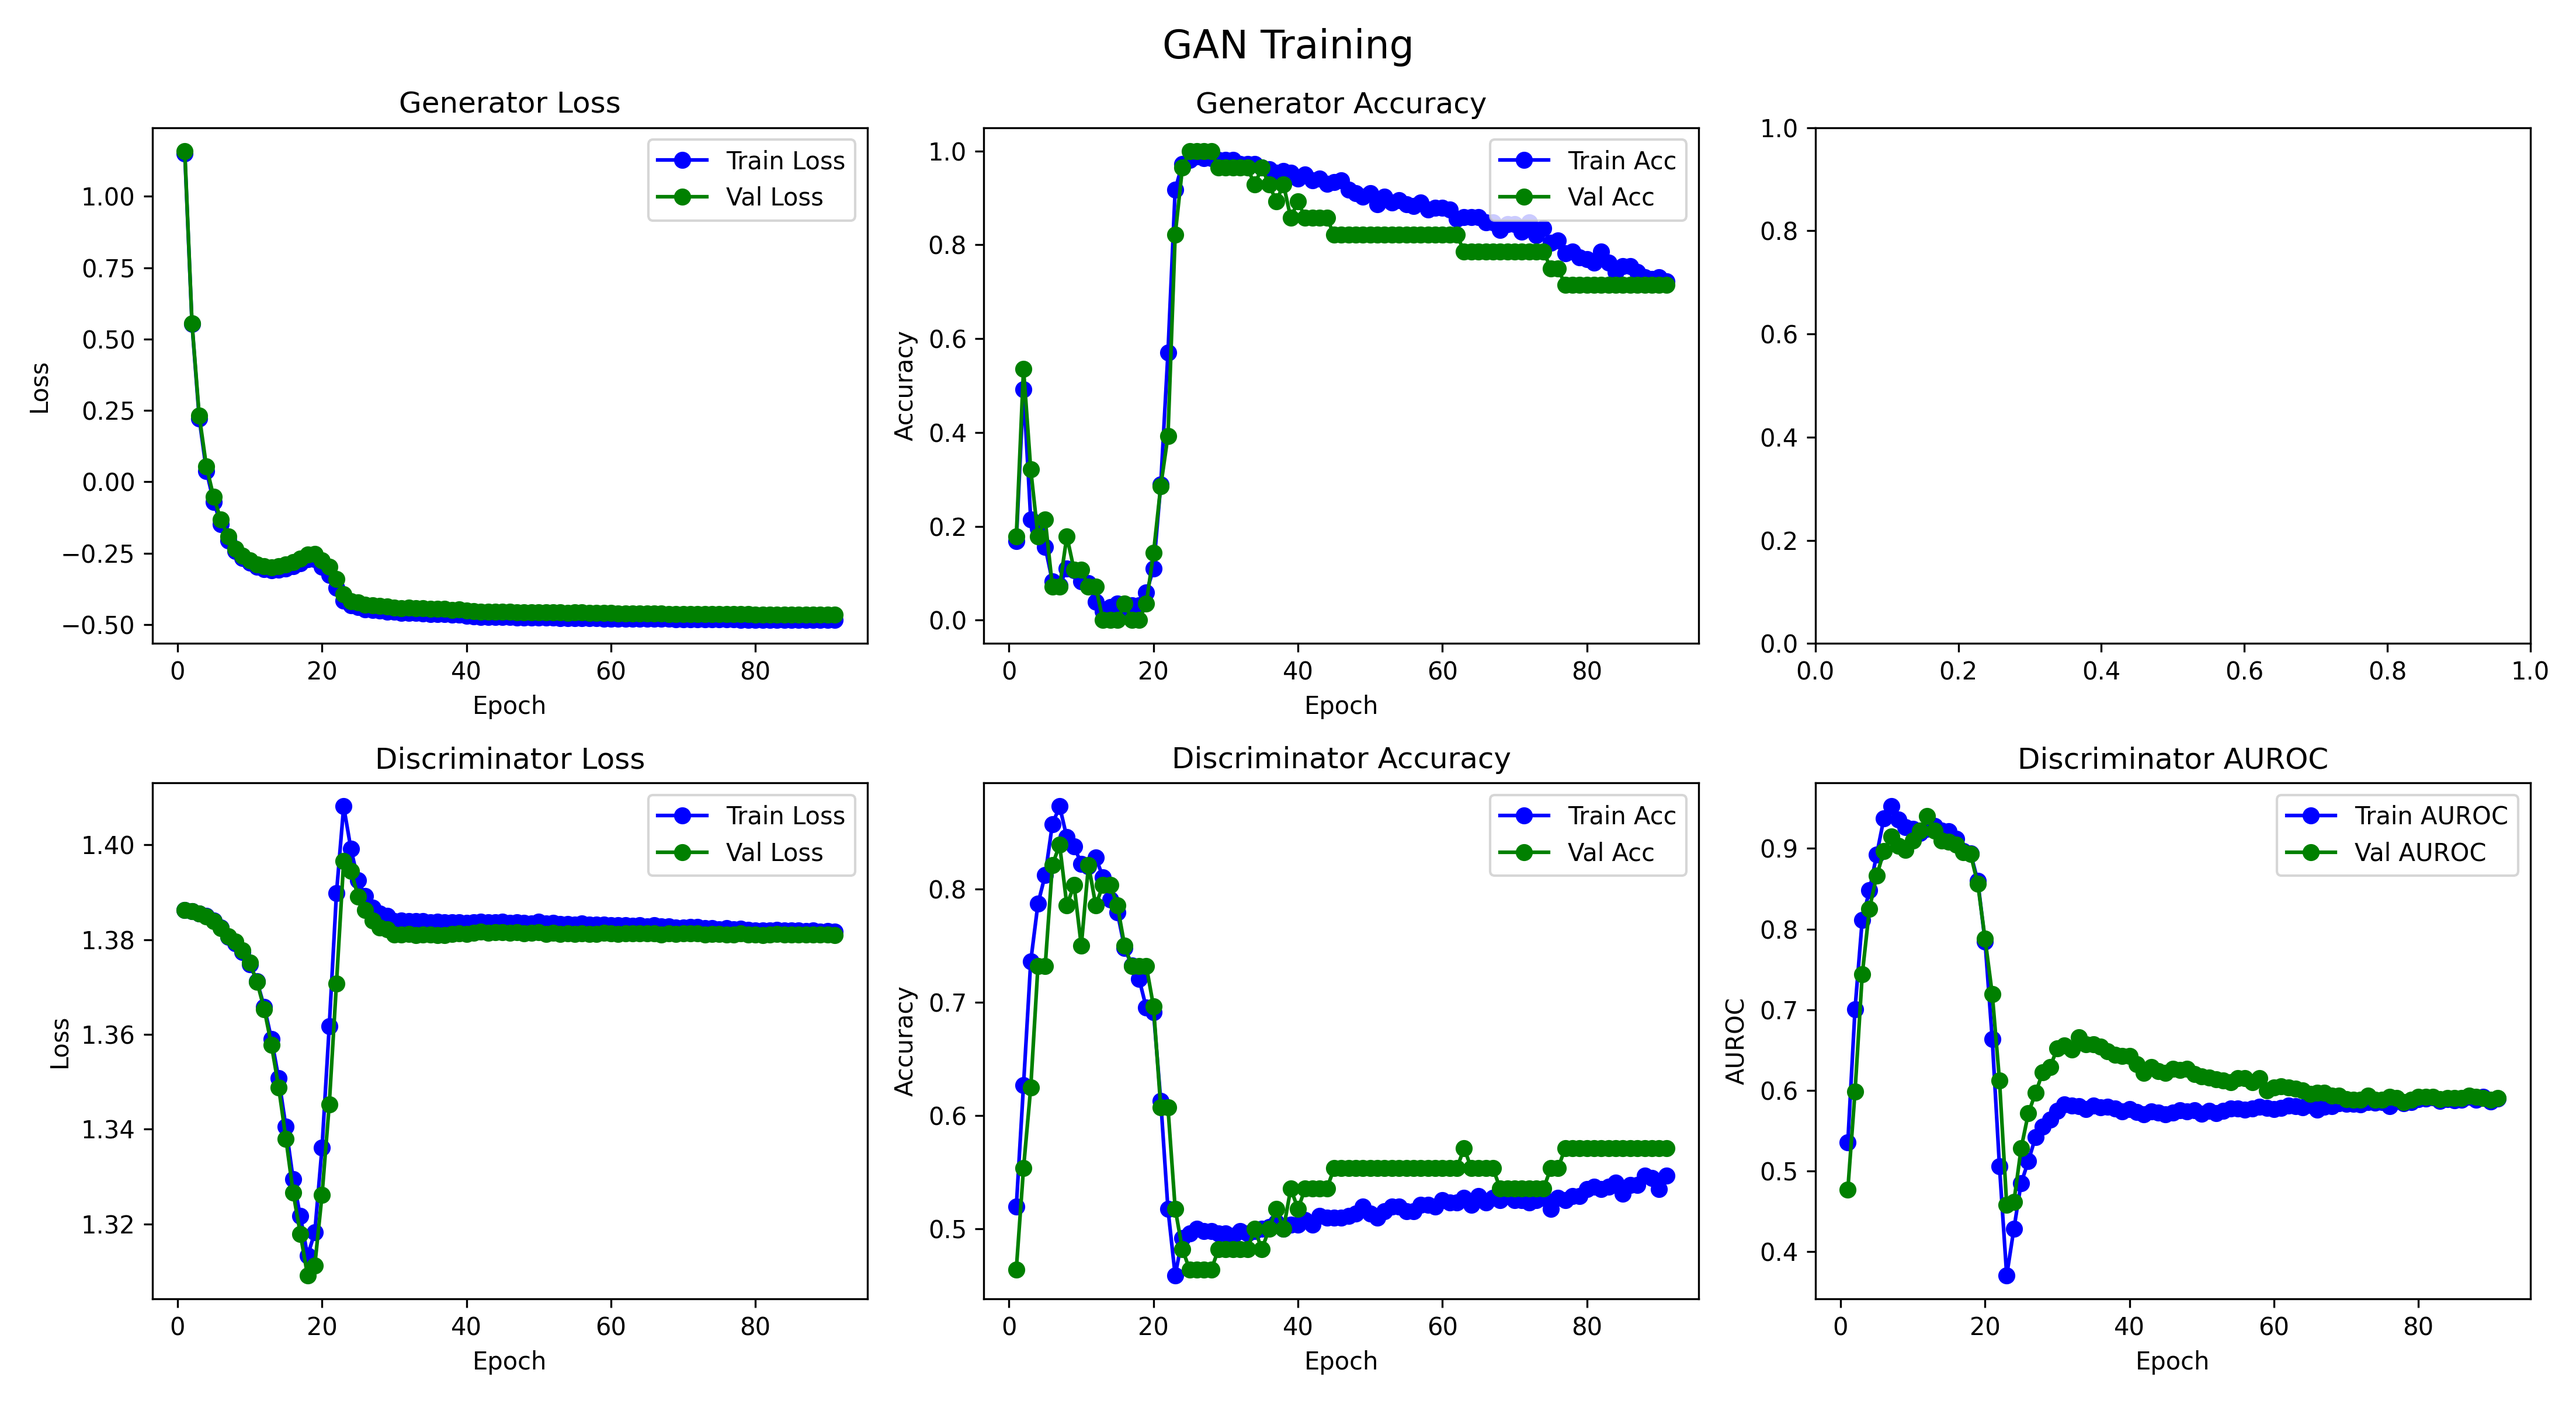
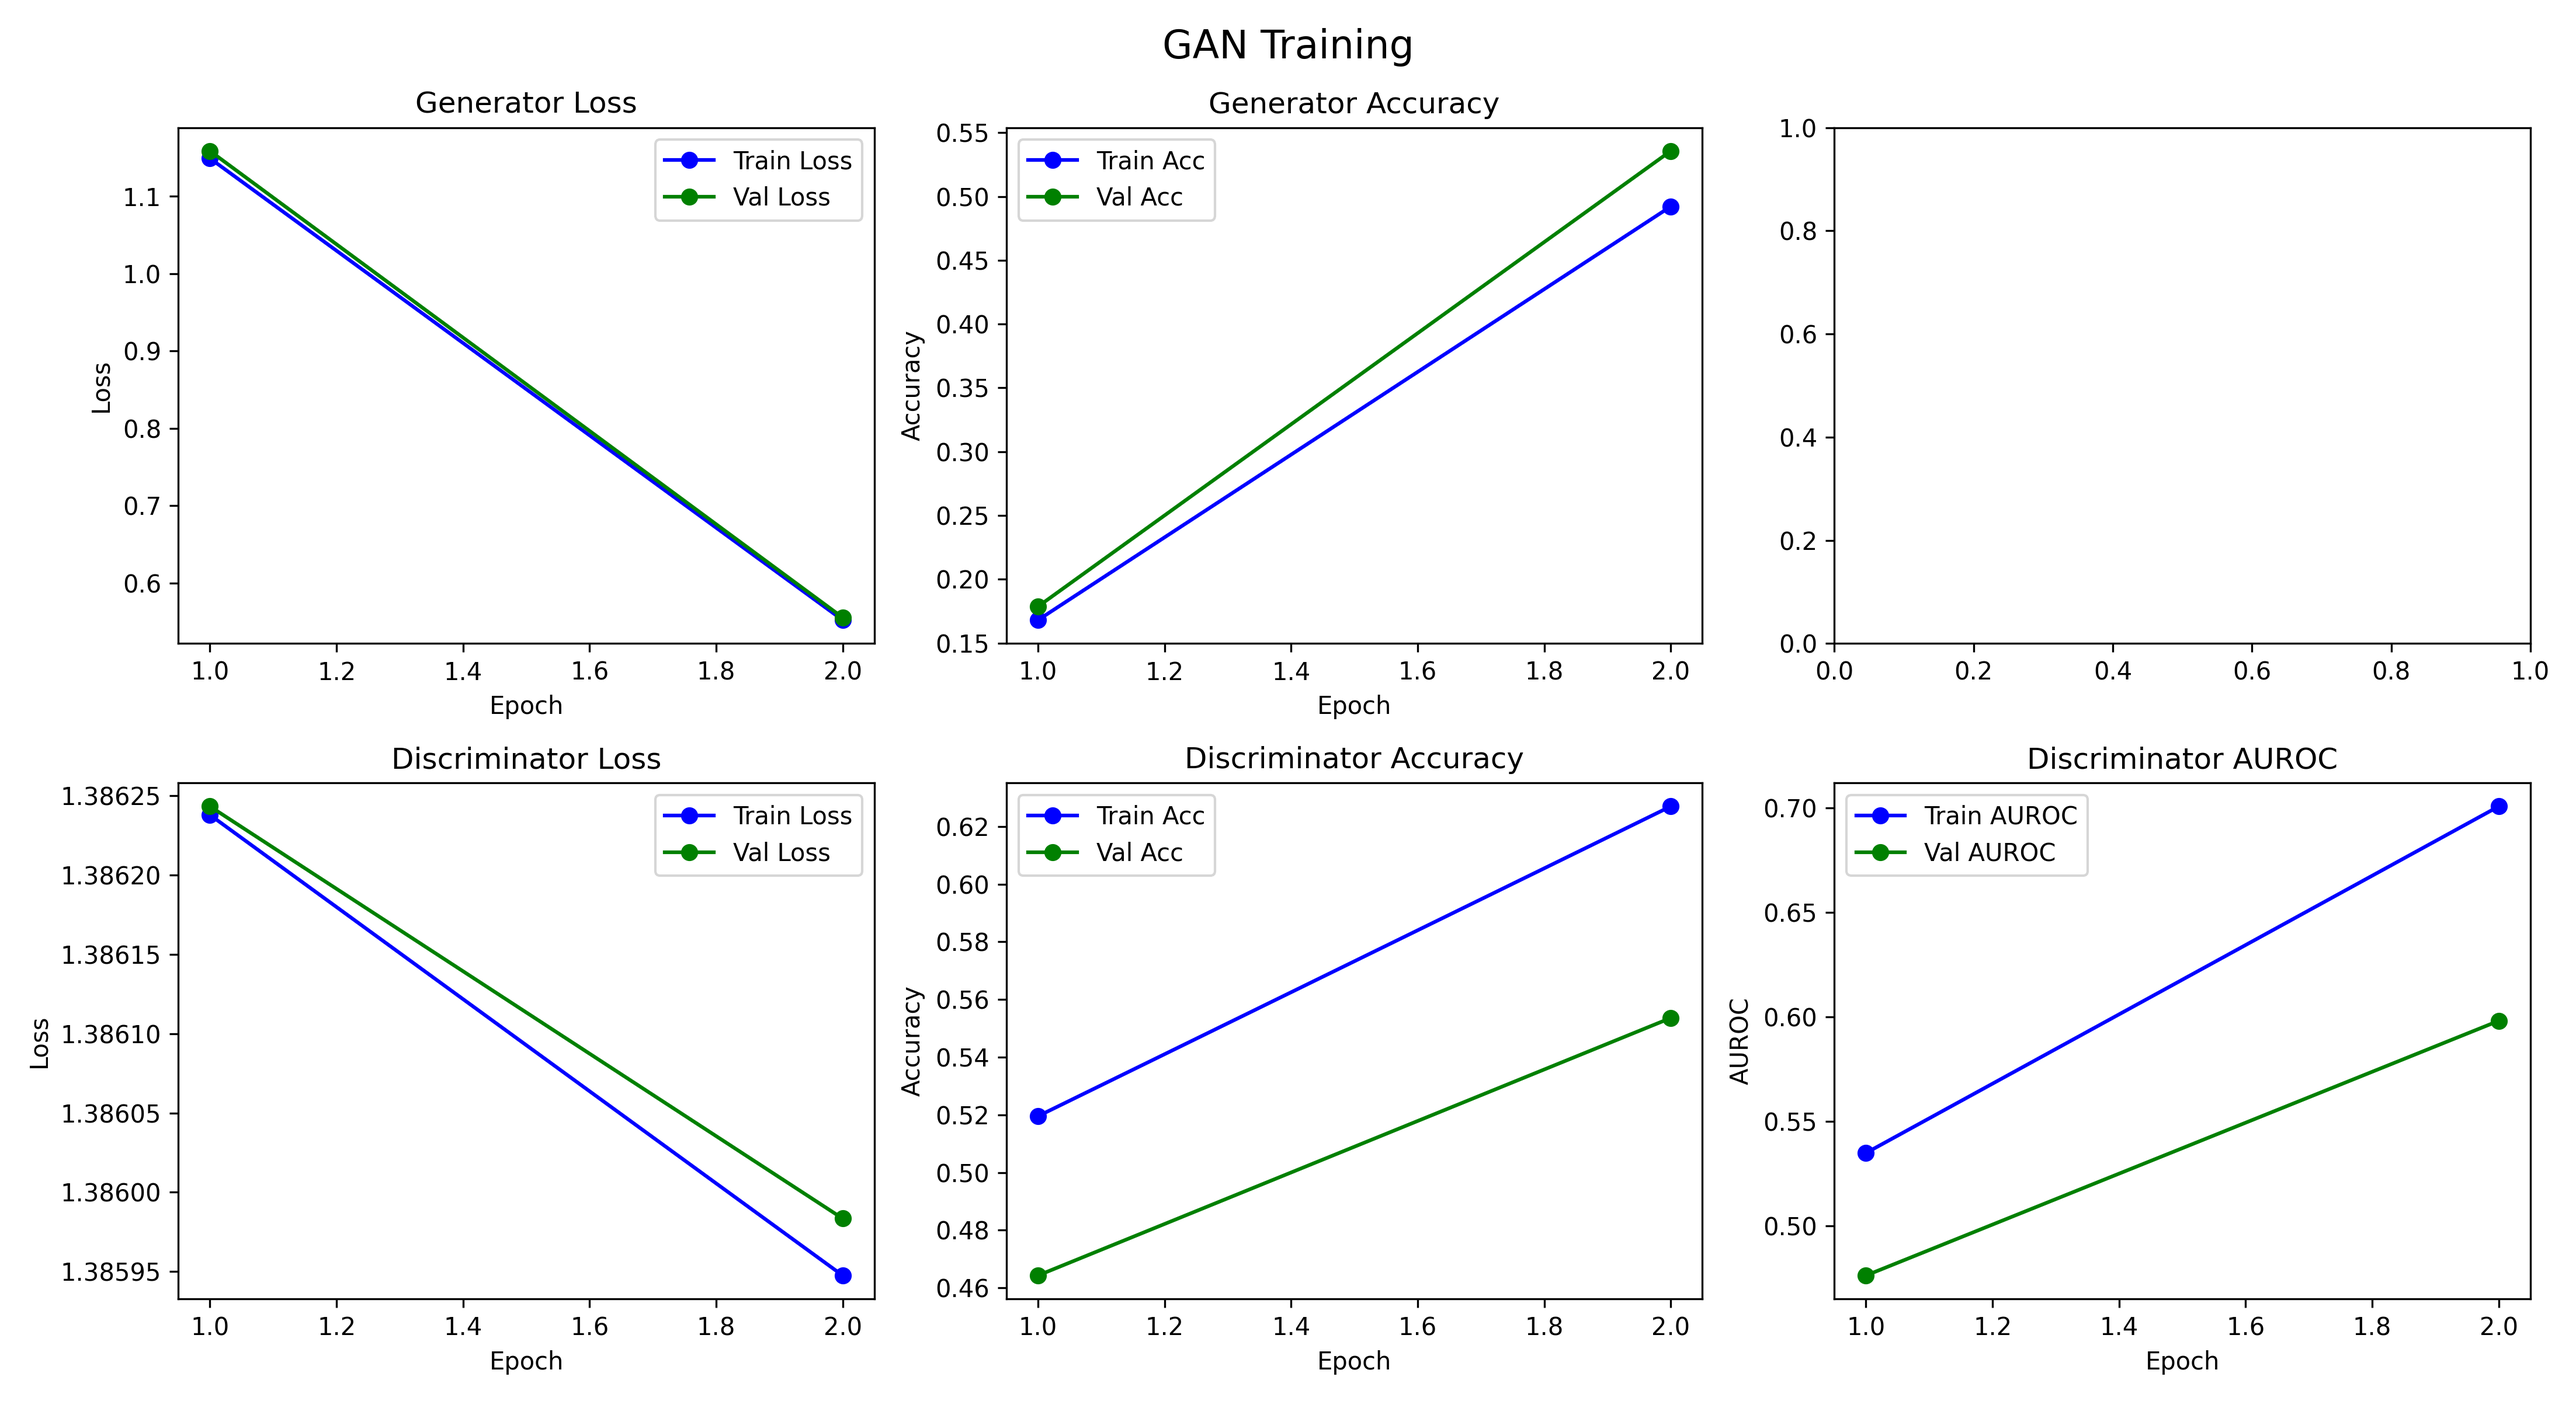
cleaned up train_gan.py and readme

diff --git a/src/train_gan.py b/src/train_gan.py
@@ -19,30 +19,35 @@ np.random.seed(42)
 random.seed(42)
 
 
-def main():
+def train_gan(
+    # Generator params
+    num_enc_filters=6,
+    num_dec_filters=12,
+    num_upsamples_and_downsamples=3,
+    # Discriminator params
+    num_filters=2,
+    num_convolutions=3,
+    num_fc_units=8,
+    # Training hyperparams
+    max_epochs=100,
+    patience=20,
+    batch_size=16,
+):
 
-    num_enc_filters = 6
-    num_dec_filters = 12
-    downup_samples = 3
-
-    num_filters = 2
-    num_conv = 3
-    num_fc_units = 8
-    
     # Data Splits
-    tr_loader, val_loader = get_train_val_test_loaders(batch_size=16)
+    tr_loader, val_loader = get_train_val_test_loaders(batch_size=batch_size)
 
     # Models
     generator = DenoisingAE(
         num_enc_filters=num_enc_filters, 
         num_dec_filters=num_dec_filters, 
-        num_downsamples=downup_samples, 
-        num_upsamples=downup_samples
+        num_downsamples=num_upsamples_and_downsamples, 
+        num_upsamples=num_upsamples_and_downsamples
     )
 
     discriminator = Discriminator(
         num_filters=num_filters,
-        num_convolutions=num_conv, 
+        num_convolutions=num_convolutions, 
         fc_units=num_fc_units
     )
 
@@ -84,8 +89,6 @@ def main():
         axes=axes,
     )
 
-    # TODO: Tweak patience hyperparam
-    patience = 20
     # Init patience count and val_losses
     curr_count_to_patience = 0
     prev_gen_val_loss = generator_stats[start_epoch]["val_loss"]
@@ -94,7 +97,7 @@ def main():
     epoch = start_epoch
 
     # While early stopping or max_epochs not reached, alternate between training generator and discriminator
-    while curr_count_to_patience < patience and epoch < 90:
+    while curr_count_to_patience < patience and epoch < max_epochs:
         # Train generator
         gen_utils.train_epoch(
             generator=generator,
@@ -149,22 +152,39 @@ def main():
         gen_scheduler.step()
         disc_scheduler.step()
 
+    # Training finsihed
+    print("Max epochs reached") if epoch >= max_epochs else print("Patience reached")
     print("Finished Training")
 
+    # Save the performance training plot
     utils.save_training_plot(save_path="images/performance_plot.png")
-
-    # Close any existing plots
-    utils.close_plot()
-
-    # Call the plotting utility function
-    title = f"Clean/Mixed/Denoised Signals\nGenerator Params: num_enc_filters={num_enc_filters}, num_dec_filters={num_dec_filters}, num_down/up_samples={downup_samples}\nDiscriminator Params: num_filters={num_filters}, convolutional_layers={num_conv}, fc_units={num_fc_units}"
-    utils.plot_denoising_results(generator=generator, val_loader=val_loader, num_examples=2, title=title)
-
-
-    # Save figure and keep plot open
     utils.hold_training_plot()
 
+    # Plot 2 examples of the generator outputs
+    title = f"Clean/Mixed/Denoised Signals\nGenerator Params: num_enc_filters={num_enc_filters}, num_dec_filters={num_dec_filters}, num_down/upsamples={num_upsamples_and_downsamples}\nDiscriminator Params: num_filters={num_filters}, convolutional_layers={num_convolutions}, fc_units={num_fc_units}"
+    utils.plot_denoising_results(generator=generator, val_loader=val_loader, num_examples=2, title=title)
+    utils.save_training_plot(save_path="images/denoised_data.png")
 
+    return generator, discriminator, tr_loader, val_loader
+
+
+
+def main() :
+
+    train_gan(
+        # Generator params
+        num_enc_filters=6,
+        num_dec_filters=12,
+        num_upsamples_and_downsamples=3,
+        # Discriminator params
+        num_filters=2,
+        num_convolutions=3,
+        num_fc_units=8,
+        # Training hyperparams
+        max_epochs=1,
+        patience=20,
+        batch_size=16,
+    )
 
 
 if __name__ == "__main__":

diff --git a/src/utils/utils.py b/src/utils/utils.py
@@ -224,7 +224,7 @@ def plot_denoising_results(generator, val_loader, title, num_examples=2, sample_
     for i in range(num_examples):
         # Fetch a batch of data from the validation loader
         batch = next(iter(val_loader))
-        mixed_data, clean_data, _, _ = batch  # Assuming batch returns these components
+        mixed_data, clean_data, _, _ = batch 
 
         # Choose a random index from the batch
         random_idx = random.randint(0, mixed_data.shape[0] - 1)

diff --git a/readme.md b/readme.md
@@ -13,8 +13,9 @@ Can assumably be extended to train on sample rates of up to 44100Hz when given p
 
 ## Setup
 
-Setup data folder as follows:
+Install dependencies in requirements.txt
 
+Setup a data folder as follows:
 ```
 GAN-Denoiser
 ├── data
@@ -29,8 +30,9 @@ GAN-Denoiser
 │       └── noise
 └── ...
 ```
+This is where created noise, sine, and mixed (noise + sine) signals will be stored.
 
-Then run create_data.py
+Run create_data.py
 This should result in folders being filled with data, and displaying plots for a random signal from each folder.
 Signals should be displayed as follows (different of course, since they are randomly generated)
 ![Created Data](images/generated_data.png)
@@ -39,10 +41,13 @@ Then run dataset.py to verify that everything is working properly (this won't ac
 
 Now we can run train_gan.py
 
+Fine-tune hyperparameters (generator architecture, discriminator architecture, data creation parameters, training parameters) as desired.
+
+
+
 Training on the same dataset from the example above, we see the following performance and generator results:
 ![Models Training](images/performance_plot.png)
 ![Denoiser Output Examples](images/denoised_output_examples.png)
-
 
 ## Architecture
 
@@ -56,36 +61,13 @@ The Generator is an autoencoder based strongly off of [this article](https://www
 
 ### Discriminator
 
-The Discriminator is tasked with distinguishing clean signals part from faux clean signals (denoised signals). 
+The Discriminator is tasked with distinguishing clean signals apart from faux clean signals (denoised signals produced by the generator). 
 
 ### Training
 
-The Discriminator is trained in classic GAN fashion, as a maxmization problem of the following:
+The Discriminator is trained in classic GAN fashion, using the BCE loss between clean signals and denoised signals.
 
-$$
-\mathcal{L}_D = - \frac{1}{N} \sum_{i=1}^N (log(D(x^{(i)})) + log(D(1 - G(z^{(i)}))))
-$$
-
-The Generator, however, is trained on a hybrid loss function, using both adversarial loss, just as so in a standard GAN, but also reconstruction loss. It is formulated as a minimization problem as follows:
-
-$$
-\mathcal{L}_G = (\mathcal{L}_G_adv + \mathcal{L}_G_recon)
-$$
-$$
-\mathcal{L}_G_adv = \frac{1}{N} \sum_{i=1}^N log(D(1 - G(z^{(i)})))
-$$
-$$
-\mathcal{L}_G_recon = \frac{1}{N} \sum_{i=1}^N (G(z^{(i)} - x^{(i)})
-$$
-
-## To-do
-
-Board of areas to improve/fix:
-- Redefine discriminator training to avoid training and evaluating on corresponding clean and mixed signals. The problem here is that to perform reconstruction loss, the Data Loaders are set up such that each mixed signal is aligned and ordered to go with it's true clean signal. We don't need this (and probably would prefer to avoid it) when training the discriminator though, as ordering here is pointless, and could be harmful as we risk the discriminator learning the ordering. 
-- Update readme with legible and information-rich plots
-
-### Except
-Except I am still working on properly implementing the GAN trainingand evaluation process... trained denoiser outputs are currently... not the greatest
+The Generator, however, is trained on a hybrid loss function. It uses adversarial loss, just as so in a standard GAN, but also reconstruction loss. The adversarial loss is just BCE loss upon how well it "fools" the discriminator. The reconstruction loss is the L1 Norm between the clean signal and the generated denoised signal. 
 
 ## Ideas
 
